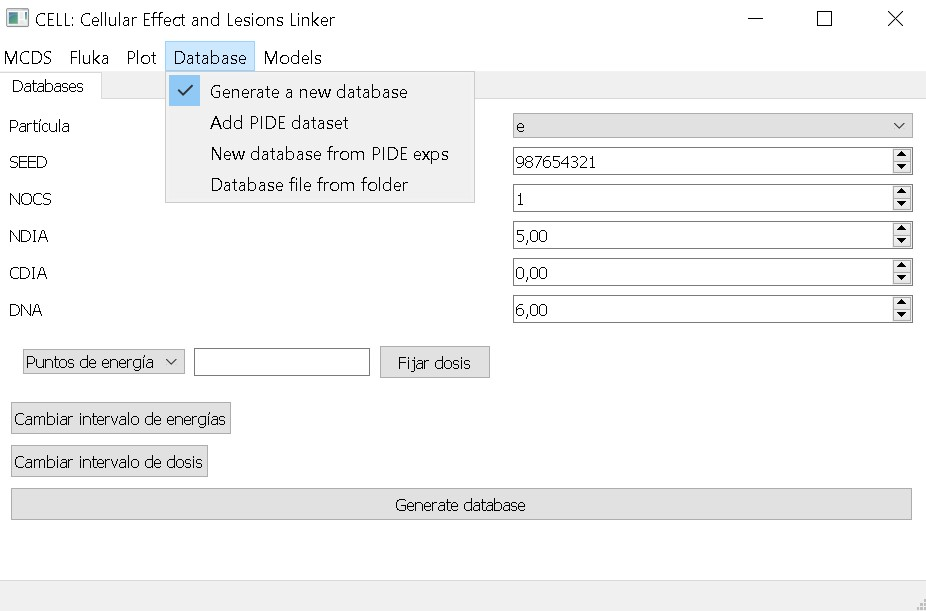
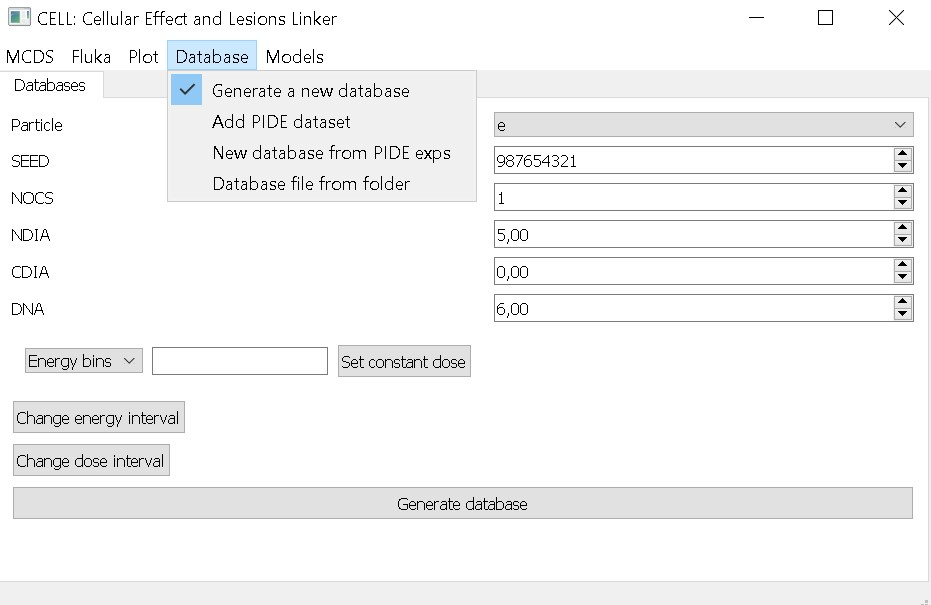
Add a basic description of the "Database" section in usage.html
An updated image was uploaded and the complete description for basic usage was added.

diff --git a/_site/usage.html b/_site/usage.html
@@ -22,7 +22,7 @@
 {"@context":"https://schema.org","@type":"WebPage","description":"[“A user-friendly tool for computing cell survival based on radiation-induced DNA damage”]","headline":"Usage","url":"http://localhost:4000/usage.html"}</script>
 <!-- End Jekyll SEO tag -->
 
-    <link rel="stylesheet" href="/assets/css/style.css?v=a1297bdc157efcc94ac88e6c1e3507295aca83f6">
+    <link rel="stylesheet" href="/assets/css/style.css?v=5c095c69c31b14808b71ce77c6ff77d1f32e82f5">
     <!--[if lt IE 9]>
     <script src="https://cdnjs.cloudflare.com/ajax/libs/html5shiv/3.7.3/html5shiv.min.js"></script>
     <![endif]-->
@@ -133,9 +133,30 @@
 
 <h2 id="database">Database</h2>
 
-<p>Texto</p>
+<p>In this menu, the user can generate a database. This file compiles simulation results from MCDS based on certain input parameters provided by the user, such as an energy range or dose. The database, with the <code class="language-plaintext highlighter-rouge">.db</code> extension, consists of:</p>
+
+<ul>
+  <li><code class="language-plaintext highlighter-rouge">energy</code> of the particles, given by the user’s input. This value can be fixed or within a range (see more in <a href="/examples.html">Examples</a>).</li>
+  <li><code class="language-plaintext highlighter-rouge">LET_cell_entry</code>, <code class="language-plaintext highlighter-rouge">LET_nuc_entry</code>, <code class="language-plaintext highlighter-rouge">LET_nuc_exit</code>: The LET at different positions in the cell, values obtained from MCDS.</li>
+  <li><code class="language-plaintext highlighter-rouge">Yield</code> : Number of DBS clusters per cell, from Table 2 of MCDS.</li>
+  <li><code class="language-plaintext highlighter-rouge">Yielde</code>: Standard deviation of the yield, from Table 2 of MCDS.</li>
+  <li><code class="language-plaintext highlighter-rouge">lambda</code>: Number of DSB clusters per cell per track, from Table 3 of MCDS.</li>
+  <li><code class="language-plaintext highlighter-rouge">lambdae</code>: Standard deviation of lambda, from Table 3 of MCDS.</li>
+</ul>
 
 <p><img src="/images/cell_database.jpg" alt="cell_database" /></p>
+
+<p>The user can change the default particle, the seed, NOCS (number of simulations), and cell parameters (NDIA, CDIA and DNA).
+After this, a number of bins must be selected to divide the energy or dose range. This number corresponds to the total number of rows in the database.
+There are default values for energy and dose, both for fixed values and ranges, as follows:</p>
+<ul>
+  <li>The default energy range is [0.5 - 500 MeV], divided into as many bins as the user chooses.</li>
+  <li>The default dose range is [0.1 - 10 Gy].</li>
+  <li>The default fixed energy is 0.5 MeV.</li>
+  <li>The default fixed dose is 0.1 Gy.</li>
+</ul>
+
+<p>It is recommended to check the <a href="/examples.html">Examples</a> section for more details on these options.</p>
 
 <h2 id="models">Models</h2>
 

diff --git a/_site/interfaz_grafica_adn.html b/_site/interfaz_grafica_adn.html
@@ -22,7 +22,7 @@
 {"@context":"https://schema.org","@type":"WebPage","description":"[“A user-friendly tool for computing cell survival based on radiation-induced DNA damage”]","headline":"Welcome to the CELL documentation","url":"http://localhost:4000/interfaz_grafica_adn.html"}</script>
 <!-- End Jekyll SEO tag -->
 
-    <link rel="stylesheet" href="/assets/css/style.css?v=a1297bdc157efcc94ac88e6c1e3507295aca83f6">
+    <link rel="stylesheet" href="/assets/css/style.css?v=5c095c69c31b14808b71ce77c6ff77d1f32e82f5">
     <!--[if lt IE 9]>
     <script src="https://cdnjs.cloudflare.com/ajax/libs/html5shiv/3.7.3/html5shiv.min.js"></script>
     <![endif]-->

diff --git a/_site/index.html b/_site/index.html
@@ -22,7 +22,7 @@
 {"@context":"https://schema.org","@type":"WebSite","description":"[“A user-friendly tool for computing cell survival based on radiation-induced DNA damage”]","headline":"About Me","name":"[“CELL”]","url":"http://localhost:4000/"}</script>
 <!-- End Jekyll SEO tag -->
 
-    <link rel="stylesheet" href="/assets/css/style.css?v=a1297bdc157efcc94ac88e6c1e3507295aca83f6">
+    <link rel="stylesheet" href="/assets/css/style.css?v=5c095c69c31b14808b71ce77c6ff77d1f32e82f5">
     <!--[if lt IE 9]>
     <script src="https://cdnjs.cloudflare.com/ajax/libs/html5shiv/3.7.3/html5shiv.min.js"></script>
     <![endif]-->

diff --git a/_site/examples.html b/_site/examples.html
@@ -22,7 +22,7 @@
 {"@context":"https://schema.org","@type":"WebPage","description":"[“A user-friendly tool for computing cell survival based on radiation-induced DNA damage”]","headline":"[“CELL”]","url":"http://localhost:4000/examples.html"}</script>
 <!-- End Jekyll SEO tag -->
 
-    <link rel="stylesheet" href="/assets/css/style.css?v=a1297bdc157efcc94ac88e6c1e3507295aca83f6">
+    <link rel="stylesheet" href="/assets/css/style.css?v=5c095c69c31b14808b71ce77c6ff77d1f32e82f5">
     <!--[if lt IE 9]>
     <script src="https://cdnjs.cloudflare.com/ajax/libs/html5shiv/3.7.3/html5shiv.min.js"></script>
     <![endif]-->

diff --git a/usage.md b/usage.md
@@ -66,9 +66,27 @@ Additional features related to plot styling are available through the icon-based
 
 ## Database
 
-Texto
+In this menu, the user can generate a database. This file compiles simulation results from MCDS based on certain input parameters provided by the user, such as an energy range or dose. The database, with the `.db` extension, consists of:
+
+ - `energy` of the particles, given by the user's input. This value can be fixed or within a range (see more in [Examples](./examples.md)).
+ - `LET_cell_entry`, `LET_nuc_entry`, `LET_nuc_exit`: The LET at different positions in the cell, values obtained from MCDS.
+ - `Yield` : Number of DBS clusters per cell, from Table 2 of MCDS.
+ - `Yielde`: Standard deviation of the yield, from Table 2 of MCDS.
+ - `lambda`: Number of DSB clusters per cell per track, from Table 3 of MCDS.
+ - `lambdae`: Standard deviation of lambda, from Table 3 of MCDS.
 
 ![cell_database](./images/cell_database.jpg)
+
+The user can change the default particle, the seed, NOCS (number of simulations), and cell parameters (NDIA, CDIA and DNA).
+After this, a number of bins must be selected to divide the energy or dose range. This number corresponds to the total number of rows in the database.
+There are default values for energy and dose, both for fixed values and ranges, as follows:
+-   The default energy range is [0.5 - 500 MeV], divided into as many bins as the user chooses.
+-   The default dose range is [0.1 - 10 Gy].
+-   The default fixed energy is 0.5 MeV.
+-   The default fixed dose is 0.1 Gy.
+
+
+It is recommended to check the [Examples](./examples.md) section for more details on these options.
 
 ## Models
 
